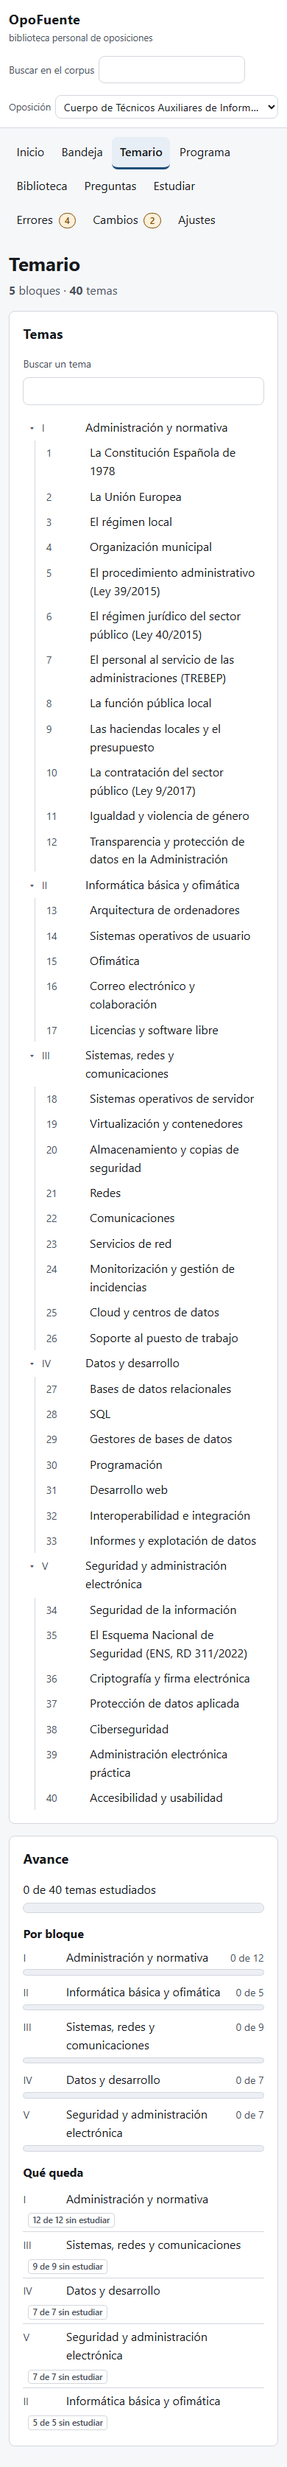
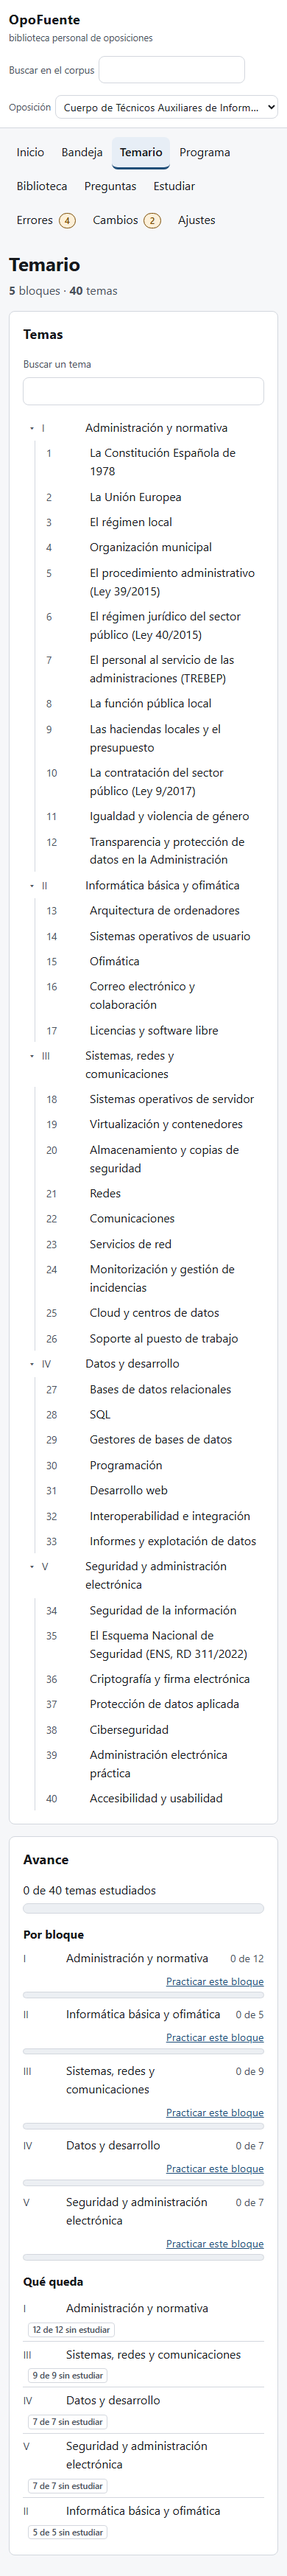
avance del dia 8/11 (commit de coordinacion)

Changed region(s): [[0.0615, 0.1553, 0.9231, 0.9937], [0.0308, 0.0, 0.8923, 0.1553], [0.0923, 0.4037, 0.1231, 0.4348]]

diff --git a/apps/web/src/pages/TemarioBlockPracticePage.tsx b/apps/web/src/pages/TemarioBlockPracticePage.tsx
@@ -1,0 +1,129 @@
+import { Link, useParams } from 'react-router-dom';
+
+import { useTemarioBlockQuestions, useTemarioNodeDetail } from '../api/queries';
+import { EmptyState } from '../components/EmptyState';
+import { ErrorState } from '../components/ErrorState';
+import { LoadingState } from '../components/LoadingState';
+import { questionTypeLabel } from '../features/temario/labels';
+
+/**
+ * Práctica libre de un bloque (B-017, alcance de vista del banco).
+ *
+ * Junta las preguntas **aceptadas** catalogadas en los temas del bloque y enlaza cada una con su
+ * ficha del banco. No crea una sesión, no cronometra y no puntúa: eso sería otro modo de estudio
+ * (S07) y se decide aparte. Aquí se puede repasar el bloque entero sin montar un examen.
+ */
+export function TemarioBlockPracticePage() {
+  const { nodeId } = useParams<{ nodeId: string }>();
+  const detalle = useTemarioNodeDetail(nodeId ?? null, null);
+  const preguntas = useTemarioBlockQuestions(nodeId ?? null);
+  const volver = (
+    <p className="hint">
+      <Link to="/temario">Volver al temario</Link>
+    </p>
+  );
+
+  if (nodeId === undefined) {
+    return (
+      <section className="card">
+        <ErrorState title="No se pudo cargar la práctica" message="Vuelve al temario y elige un bloque." />
+        {volver}
+      </section>
+    );
+  }
+
+  if (detalle.isPending) {
+    return (
+      <section className="card">
+        <LoadingState label="Cargando el bloque…" />
+        {volver}
+      </section>
+    );
+  }
+  if (detalle.isError) {
+    return (
+      <section className="card">
+        <ErrorState
+          title="No se pudo cargar la práctica"
+          message="El bloque no existe o no está disponible."
+          onRetry={() => {
+            void detalle.refetch();
+          }}
+        />
+        {volver}
+      </section>
+    );
+  }
+
+  const nodo = detalle.data.node;
+
+  return (
+    <>
+      <header className="page__header">
+        <nav className="breadcrumb" aria-label="Ruta de la práctica">
+          <Link to="/temario">Temario</Link>
+          <span aria-hidden="true">›</span> {nodo.title}
+        </nav>
+        <h1>Práctica libre del bloque</h1>
+        <p className="page__lead">
+          <span className="node__path">{nodo.path}</span> · {nodo.title}
+        </p>
+      </header>
+
+      <section className="card" aria-labelledby="practica-libre">
+        <h2 id="practica-libre">Preguntas del bloque</h2>
+        <p className="hint">
+          Preguntas aceptadas del banco catalogadas en los temas de este bloque. Se abren en su
+          ficha para repasarlas; no es una sesión ni tiene nota.
+        </p>
+
+        {preguntas.isPending && <LoadingState label="Cargando las preguntas del bloque…" />}
+        {preguntas.isError && (
+          <ErrorState
+            title="No se pudieron cargar las preguntas"
+            message="Inténtalo de nuevo."
+            onRetry={() => {
+              void preguntas.refetch();
+            }}
+          />
+        )}
+        {preguntas.isSuccess &&
+          (preguntas.data.total === 0 ? (
+            <EmptyState
+              title="Este bloque aún no tiene preguntas"
+              description="Cuando el banco tenga preguntas aceptadas de sus temas aparecerán aquí."
+            />
+          ) : (
+            <>
+              <p className="hint">
+                {preguntas.data.total === 1
+                  ? '1 pregunta'
+                  : `${String(preguntas.data.total)} preguntas`}
+              </p>
+              <ul className="question-list">
+                {preguntas.data.questions.map((pregunta) => (
+                  <li key={pregunta.id} className="question">
+                    <div className="question__header">
+                      <span className="tag">{questionTypeLabel(pregunta.question_type)}</span>
+                    </div>
+                    <p className="question__stem">{pregunta.stem}</p>
+                    <p className="question__action">
+                      <Link
+                        to={`/preguntas?conjunto=${encodeURIComponent(
+                          pregunta.question_set_id,
+                        )}&pregunta=${encodeURIComponent(pregunta.id)}`}
+                      >
+                        Repasar en el banco
+                      </Link>
+                    </p>
+                  </li>
+                ))}
+              </ul>
+            </>
+          ))}
+      </section>
+
+      {volver}
+    </>
+  );
+}

diff --git a/apps/web/tests/e2e/temario.spec.ts b/apps/web/tests/e2e/temario.spec.ts
@@ -146,6 +146,36 @@ test('S13: la ficha del tema enlaza las convocatorias C1 que lo estudian', async
   await expect(page.getByText(/se calcula|cobertura/i)).toHaveCount(0);
 });
 
+test('S13/B-017: la práctica libre de un bloque junta sus preguntas sin montar sesión', async ({
+  page,
+}) => {
+  await page.goto('/temario');
+  await expect(page.getByRole('list', { name: 'Temario común' })).toBeVisible();
+  await page.getByRole('link', { name: 'Practicar este bloque' }).first().click();
+
+  await expect(
+    page.getByRole('heading', { level: 1, name: 'Práctica libre del bloque' }),
+  ).toBeVisible();
+  await expect(page.getByRole('heading', { name: 'Preguntas del bloque' })).toBeVisible();
+  // O hay preguntas aceptadas del bloque o se dice que no hay: nunca una lista fingida.
+  await expect(
+    page.getByText(/preguntas aceptadas del banco|catalogadas en los temas/i).first(),
+  ).toBeVisible();
+
+  for (const ancho of [1280, 390]) {
+    await page.setViewportSize({ width: ancho, height: ancho === 390 ? 844 : 900 });
+    await page.reload();
+    await expect(
+      page.getByRole('heading', { level: 1, name: 'Práctica libre del bloque' }),
+    ).toBeVisible();
+    await sinDesborde(page);
+    await page.screenshot({
+      path: path.join(CAPTURAS, `temario-practica-${String(ancho)}.png`),
+      fullPage: true,
+    });
+  }
+});
+
 test('S13: el temario no tiene violaciones automatizables', async ({ page }) => {
   await page.goto('/temario');
   await expect(page.getByRole('list', { name: 'Temario común' })).toBeVisible();

diff --git a/apps/web/src/api/queries.ts b/apps/web/src/api/queries.ts
@@ -73,6 +73,7 @@ import {
   fetchCurriculumProgress,
   fetchNodeMaterials,
   fetchNodeQuestions,
+  fetchBlockQuestions,
   markNodeStudied,
   unmarkNodeStudied,
   type CurriculumKind,
@@ -178,6 +179,7 @@ export const queryKeys = {
   temarioNode: (nodeId: string, convocationId: string | null) =>
     ['temario', 'node', nodeId, convocationId ?? ''] as const,
   temarioNodeQuestions: (nodeId: string) => ['temario', 'node-questions', nodeId] as const,
+  temarioBlockQuestions: (nodeId: string) => ['temario', 'block-questions', nodeId] as const,
   temarioNodeMaterials: (nodeId: string) => ['temario', 'node-materials', nodeId] as const,
   batches: ['ingestion', 'batches'] as const,
   batch: (id: string) => ['ingestion', 'batch', id] as const,
@@ -375,6 +377,16 @@ export function useTemarioNodeQuestions(nodeId: string | null) {
   return useQuery({
     queryKey: queryKeys.temarioNodeQuestions(nodeId ?? 'ninguno'),
     queryFn: () => fetchNodeQuestions(nodeId as string),
+    enabled: nodeId !== null,
+    staleTime: 30_000,
+  });
+}
+
+/** Preguntas aceptadas de todo un bloque, para la práctica libre (B-017). */
+export function useTemarioBlockQuestions(nodeId: string | null) {
+  return useQuery({
+    queryKey: queryKeys.temarioBlockQuestions(nodeId ?? 'ninguno'),
+    queryFn: () => fetchBlockQuestions(nodeId as string),
     enabled: nodeId !== null,
     staleTime: 30_000,
   });

diff --git a/apps/web/src/app/routes.tsx b/apps/web/src/app/routes.tsx
@@ -12,6 +12,7 @@ import { ReviewPage } from '../pages/ReviewPage';
 import { SearchPage } from '../pages/SearchPage';
 import { SettingsPage } from '../pages/SettingsPage';
 import { StudyPage } from '../pages/StudyPage';
+import { TemarioBlockPracticePage } from '../pages/TemarioBlockPracticePage';
 import { TemarioNodePage } from '../pages/TemarioNodePage';
 import { TemarioPage } from '../pages/TemarioPage';
 import { TrayPage } from '../pages/TrayPage';
@@ -25,6 +26,7 @@ export function AppRoutes() {
           `?convocatoria=<id>` para enseñar las particularidades de esa convocatoria. */}
       <Route path="/temario" element={<TemarioPage />} />
       <Route path="/temario/:nodeId" element={<TemarioNodePage />} />
+      <Route path="/temario/:nodeId/practicar" element={<TemarioBlockPracticePage />} />
       <Route path="/programa" element={<ProgramPage />} />
       <Route path="/bandeja" element={<TrayPage />} />
       <Route path="/biblioteca" element={<LibraryPage />} />

diff --git a/apps/web/src/features/temario/ProgressPanel.tsx b/apps/web/src/features/temario/ProgressPanel.tsx
@@ -1,3 +1,5 @@
+import { Link } from 'react-router-dom';
+
 import type { Progress } from '../../api/temario';
 
 export interface ProgressPanelProps {
@@ -61,6 +63,12 @@ export function ProgressPanel({ progress }: ProgressPanelProps) {
               <span className="hint">
                 {block.topics_studied} de {block.topics_total}
               </span>
+              <Link
+                className="progress-list__practice"
+                to={`/temario/${encodeURIComponent(block.block_id)}/practicar`}
+              >
+                Practicar este bloque
+              </Link>
             </div>
             <div
               className="progress__track progress__track--small"

diff --git a/apps/web/src/api/temario.ts b/apps/web/src/api/temario.ts
@@ -83,6 +83,13 @@ export function fetchNodeQuestions(
   );
 }
 
+/** Preguntas aceptadas de un bloque entero: sus temas, sin clave. Práctica libre de B-017. */
+export function fetchBlockQuestions(nodeId: string): Promise<NodeQuestionPage> {
+  return apiFetch<NodeQuestionPage>(
+    `/api/v1/curriculum-nodes/${encodeURIComponent(nodeId)}/questions?limit=100&offset=0&include_descendants=true`,
+  );
+}
+
 /** Material de la biblioteca catalogado en el tema (documento, sección o cita). */
 export function fetchNodeMaterials(nodeId: string, limit = 20): Promise<NodeMaterialPage> {
   return apiFetch<NodeMaterialPage>(

diff --git a/packages/contracts/src/openapi.d.ts b/packages/contracts/src/openapi.d.ts
@@ -8540,6 +8540,8 @@ export interface operations {
             query?: {
                 limit?: number;
                 offset?: number;
+                /** @description En un bloque, incluir también las preguntas de sus temas (práctica libre). */
+                include_descendants?: boolean;
             };
             header?: never;
             path: {

diff --git a/apps/web/src/styles/global.css b/apps/web/src/styles/global.css
@@ -922,6 +922,11 @@ button:focus-visible,
   min-width: 0;
 }
 
+.progress-list__practice {
+  margin-left: auto;
+  font-size: 0.9rem;
+}
+
 .pending-list {
   list-style: none;
   margin: 0;

diff --git a/apps/api/opofuente/infrastructure/curriculum_read_repository.py b/apps/api/opofuente/infrastructure/curriculum_read_repository.py
@@ -311,21 +311,41 @@ class SqlAlchemyCurriculumReadRepository:
 
     # ------------------------------------------------------------------ contenido del tema
 
-    def node_questions(self, node_id: str, *, limit: int, offset: int) -> NodeQuestionPage | None:
+    def node_questions(
+        self, node_id: str, *, limit: int, offset: int, include_descendants: bool = False
+    ) -> NodeQuestionPage | None:
         """Preguntas del banco catalogadas en el tema, sin clave: la ficha no examina.
 
         Solo cuentan los mapeos **aceptados** y las versiones no sustituidas: una pregunta rechazada
-        o corregida no debe seguir colgando del tema.
+        o corregida no debe seguir colgando del tema. Con `include_descendants`, un bloque devuelve
+        también las preguntas de sus temas: es la lectura de la práctica libre por bloque de B-017.
         """
         with self._session_factory() as session:
             if session.get(CurriculumNodeRecord, node_id) is None:
                 return None
-            condiciones = (
-                CurriculumMappingRecord.curriculum_node_id == node_id,
+            condiciones = [
                 CurriculumMappingRecord.subject_type == "question_version",
                 CurriculumMappingRecord.status == "accepted",
                 QuestionVersionRecord.status != "superseded",
-            )
+            ]
+            if include_descendants:
+                # Subárbol del nodo por la relación padre-hijo: no se hardcodean los 40 temas ni se
+                # pide una consulta por tema (serían cuarenta viajes para pintar un bloque).
+                subarbol = (
+                    select(CurriculumNodeRecord.id)
+                    .where(CurriculumNodeRecord.id == node_id)
+                    .cte(name="subarbol_del_bloque", recursive=True)
+                )
+                subarbol = subarbol.union_all(
+                    select(CurriculumNodeRecord.id).where(
+                        CurriculumNodeRecord.parent_id == subarbol.c.id
+                    )
+                )
+                condiciones.append(
+                    CurriculumMappingRecord.curriculum_node_id.in_(select(subarbol.c.id))
+                )
+            else:
+                condiciones.append(CurriculumMappingRecord.curriculum_node_id == node_id)
             total = session.execute(
                 select(func.count())
                 .select_from(CurriculumMappingRecord)

diff --git a/apps/api/tests/integration/test_temario_contenido_api.py b/apps/api/tests/integration/test_temario_contenido_api.py
@@ -212,6 +212,31 @@ def test_la_ficha_devuelve_el_material_aceptado_con_su_cita(cliente: TestClient)
     assert cita["excerpt"] == "La Constitución Española de 1978."
 
 
+def test_la_practica_libre_de_un_bloque_junta_las_preguntas_de_sus_temas(
+    cliente: TestClient,
+) -> None:
+    """B-017: el bloque no pide una consulta por tema; incluye el subárbol de una vez."""
+    arbol = cliente.get("/api/v1/curricula/informatica-c1").json()
+    bloque = arbol["nodes"][0]
+    tema = bloque["children"][0]
+
+    solo_bloque = cliente.get(f"/api/v1/curriculum-nodes/{bloque['id']}/questions")
+    assert solo_bloque.status_code == 200
+    assert solo_bloque.json()["total"] == 0, "la pregunta cuelga del tema, no del bloque"
+
+    con_temas = cliente.get(
+        f"/api/v1/curriculum-nodes/{bloque['id']}/questions?include_descendants=true"
+    )
+    assert con_temas.status_code == 200
+    assert con_temas.json()["total"] == 1, "incluye la pregunta del tema del bloque"
+    assert con_temas.json()["node_id"] == bloque["id"]
+
+    # El tema sigue devolviendo solo lo suyo: el parámetro no cambia la lectura normal.
+    solo_tema = cliente.get(f"/api/v1/curriculum-nodes/{tema['id']}/questions")
+    assert solo_tema.status_code == 200
+    assert solo_tema.json()["total"] == 1
+
+
 def test_el_contenido_de_un_nodo_inexistente_da_404(cliente: TestClient) -> None:
     assert cliente.get("/api/v1/curriculum-nodes/no-existe/questions").status_code == 404
     assert cliente.get("/api/v1/curriculum-nodes/no-existe/materials").status_code == 404

diff --git a/apps/api/opofuente/application/curriculum_read_service.py b/apps/api/opofuente/application/curriculum_read_service.py
@@ -80,9 +80,17 @@ class CurriculumReadService:
             raise NotFoundError("nodo del temario", node_id)
         return resultado
 
-    def node_questions(self, node_id: str, *, limit: int, offset: int) -> NodeQuestionPage:
-        """Preguntas del banco catalogadas en el tema (solo las aceptadas y vigentes)."""
-        pagina = self._repository.node_questions(node_id, limit=limit, offset=offset)
+    def node_questions(
+        self, node_id: str, *, limit: int, offset: int, include_descendants: bool = False
+    ) -> NodeQuestionPage:
+        """Preguntas del banco catalogadas en el tema (solo las aceptadas y vigentes).
+
+        Con `include_descendants`, un bloque incluye las de sus temas; es la lectura de la práctica
+        libre por bloque de B-017.
+        """
+        pagina = self._repository.node_questions(
+            node_id, limit=limit, offset=offset, include_descendants=include_descendants
+        )
         if pagina is None:
             raise NotFoundError("nodo del temario", node_id)
         return pagina

diff --git a/apps/api/opofuente/api/routes/temario.py b/apps/api/opofuente/api/routes/temario.py
@@ -300,8 +300,14 @@ def get_node_questions(
     service: CurriculumServiceDep,
     limit: int = Query(default=20, ge=1, le=100),
     offset: int = Query(default=0, ge=0),
+    include_descendants: bool = Query(
+        default=False,
+        description="En un bloque, incluir también las preguntas de sus temas (práctica libre).",
+    ),
 ) -> NodeQuestionPageSchema:
-    pagina: NodeQuestionPage = service.node_questions(node_id, limit=limit, offset=offset)
+    pagina: NodeQuestionPage = service.node_questions(
+        node_id, limit=limit, offset=offset, include_descendants=include_descendants
+    )
     return NodeQuestionPageSchema(
         node_id=pagina.node_id,
         total=pagina.total,
